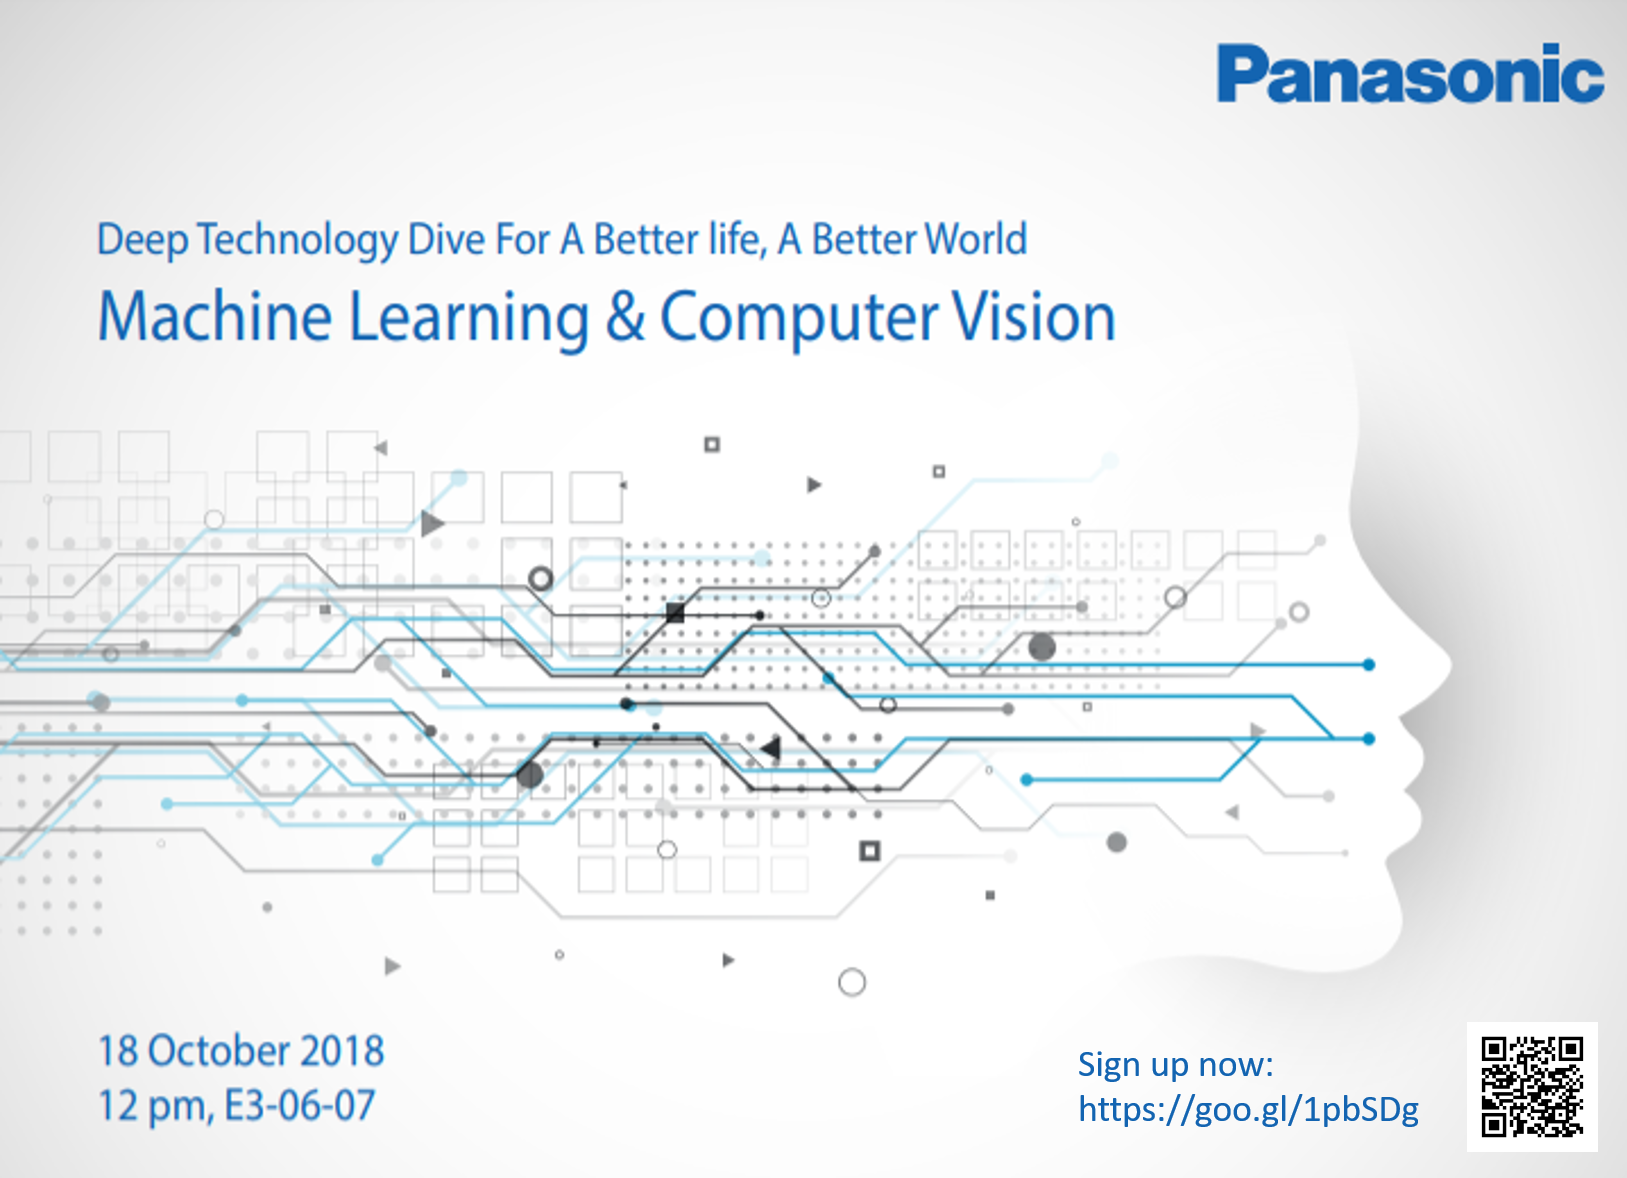
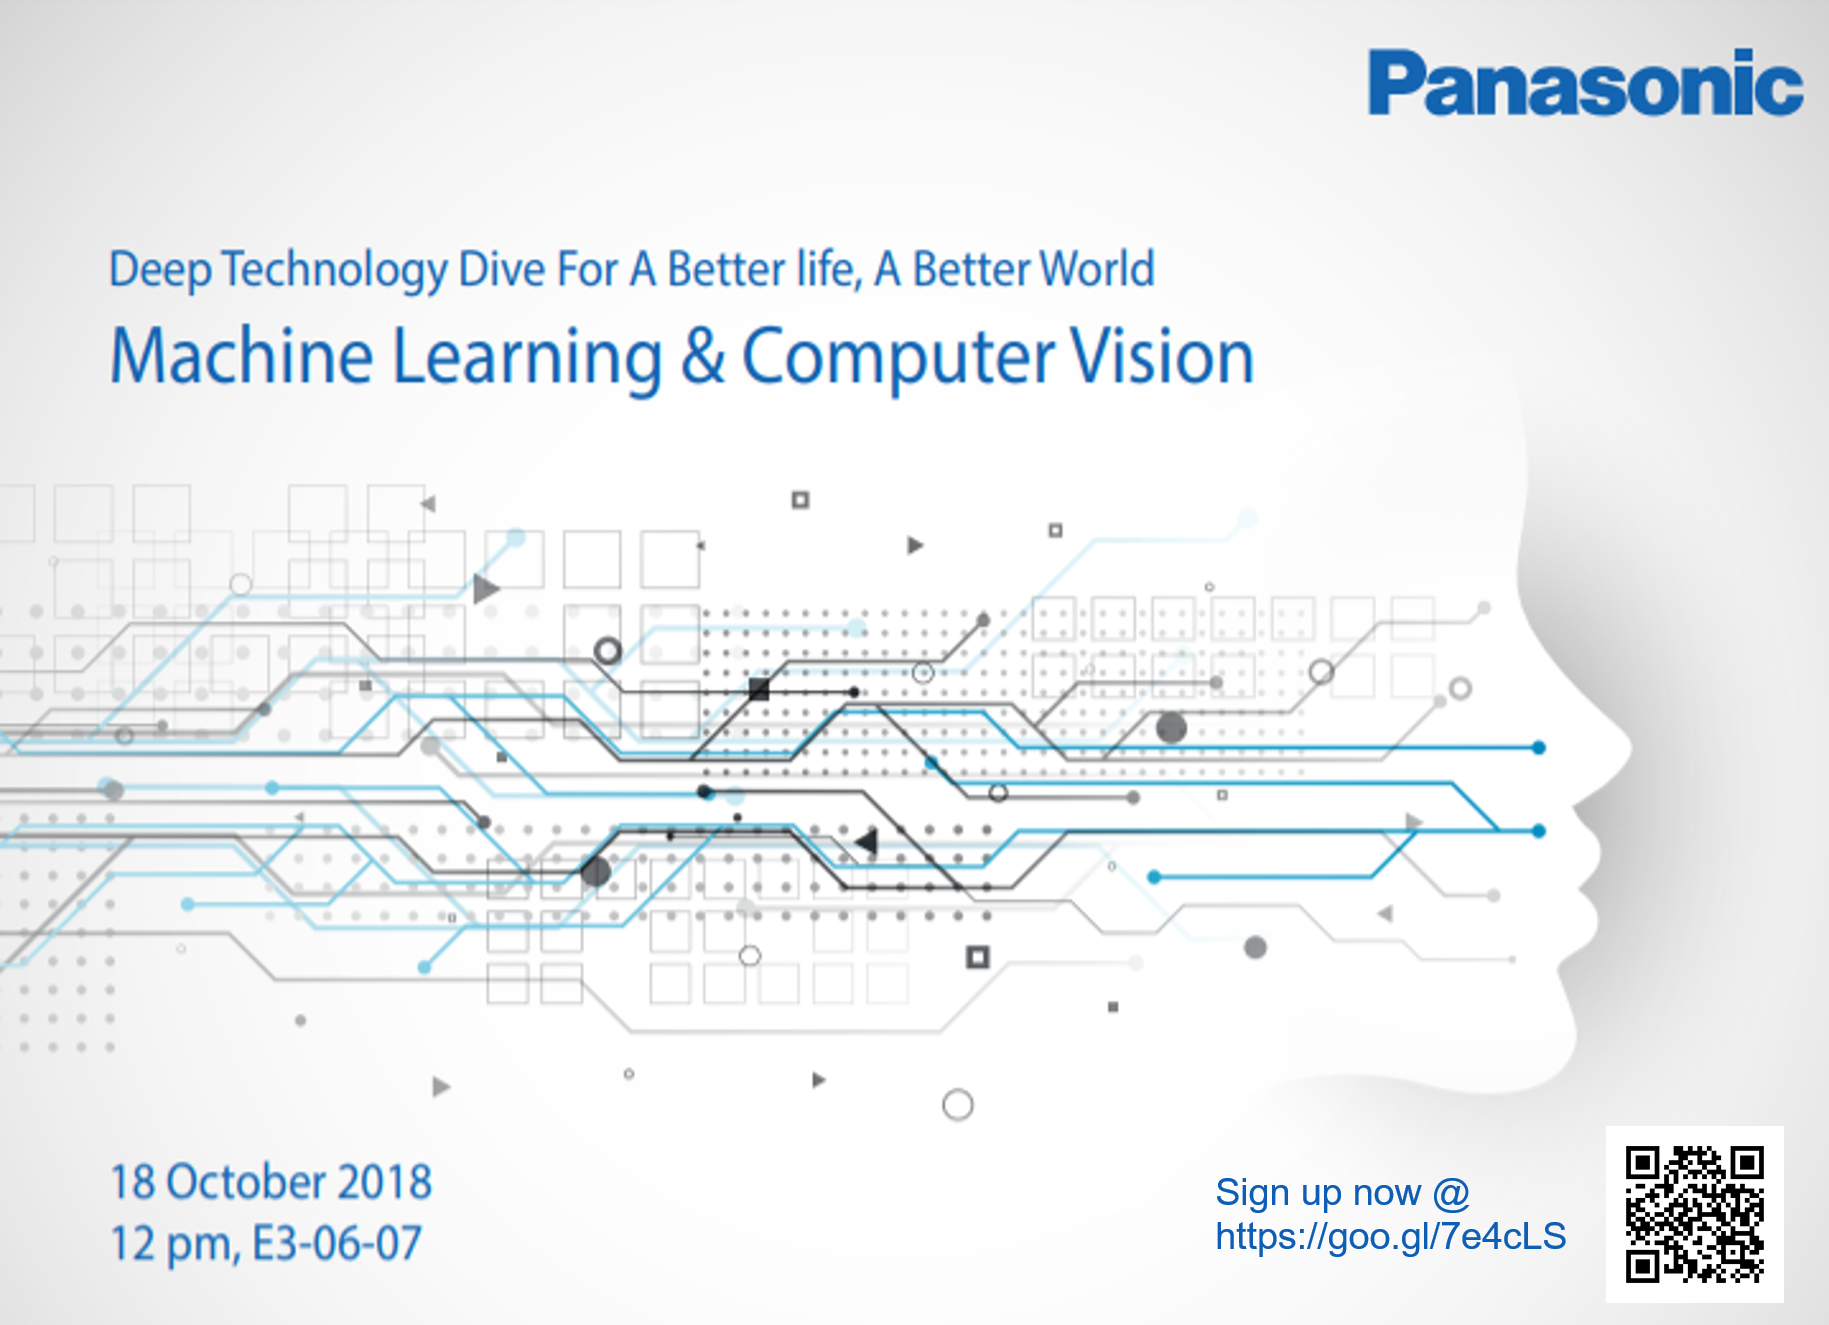
Post#Panasonic: update link to sign up page (#15)

Changed region(s): [[0.6454, 0.8557, 0.9834, 0.9779]]

diff --git a/_posts/2018-10-12-Panasonic Tech Talk.md b/_posts/2018-10-12-Panasonic Tech Talk.md
@@ -12,14 +12,4 @@ Come to hear them for yourself on how they maintain their global leadership role
     <img src ="/news/img/2018/2018-10-12-panasonic-2.png"/><br/>
 </div>
 
-<div style="display: table;">
-    <div style="display: table-cell; vertical-align: middle; width: 60%;">
-        Sign up now @ 
-        <a href="https://goo.gl/1pbSDg">
-            https://goo.gl/1pbSDg
-        </a>
-    </div>
-    <div style="display: table-cell; margin: auto; display: block; width: 40%;">
-        <img src ="/news/img/2018/2018-10-12-panasonic-qr.png"/><br/>
-    </div>
-</div>
+Sign up now @ [https://goo.gl/7e4cLS](https://goo.gl/7e4cLS)
